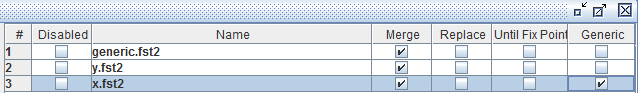
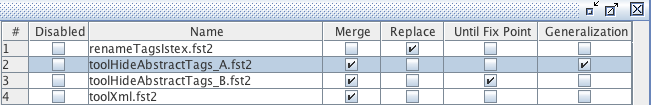
[minor refactor] Rename generic graphs
‘generic graph’ is renamed to ‘tagging generalization graph’ in English
and to ‘graphe de généralisation d’étiquetage’

diff --git a/tex/12-cassys_FR_utf8.tex b/tex/12-cassys_FR_utf8.tex
@@ -376,31 +376,31 @@ $\backslash$ dans la concordance pour éviter des problèmes avec Unitex.
   \label{fig13-07}
 \end{figure}
 
-\section{Graphes g\'{e}n\'{e}riques}
+\section{Graphes de g\'{e}n\'{e}ralisation d'\'{e}tiquetage}
 
-Parfois, on a identifi\'{e} des \'{e}l\'{e}ments recherch\'{e}s gr\^{a}ce \`{a} leur contexte, mais si ces \'{e}l\'{e}ments apparaissent ailleurs hors contexte on ne les reconna\^{i}t pas. Afin de trouver de telles occurences, CasSys propose d'utiliser des graphes g\'{e}n\'{e}riques. Ces graphes contiennent des bo\^{i}tes vides qui sont remplies automatiquement par le programme avant d'\^{e}tre appliqu\'{e}s au texte. Ces graphes g\'{e}n\'{e}riques ne fonctionnent qu'avec l'utilisation d'accolades, car le programme consulte la liste de token (tok\_by\_alph.txt) du texte \`{a} analyser par le futur graphe.
+Parfois, on a identifi\'{e} des \'{e}l\'{e}ments recherch\'{e}s gr\^{a}ce \`{a} leur contexte, mais si ces \'{e}l\'{e}ments apparaissent ailleurs hors contexte on ne les reconna\^{i}t pas. Afin de trouver de telles occurences, CasSys propose d'utiliser des graphes de g\'{e}n\'{e}ralisation d'\'{e}tiquetage. Ces graphes contiennent des bo\^{i}tes vides qui sont remplies automatiquement par le programme avant d'\^{e}tre appliqu\'{e}s au texte. Ces graphes de g\'{e}n\'{e}ralisation d'\'{e}tiquetage ne fonctionnent qu'avec l'utilisation d'accolades, car le programme consulte la liste de token (tok\_by\_alph.txt) du texte \`{a} analyser par le futur graphe.
 
-\subsection{D\'{e}claration d'un graphe g\'{e}n\'{e}rique}
-Pour que CasSys reconnaisse un graphe g\'{e}n\'{e}rique il faut cocher la colonne \emph{Generic} (figure \ref{fig12-3}).
+\subsection{D\'{e}claration d'un graphe de g\'{e}n\'{e}ralisation d'\'{e}tiquetage}
+Pour que CasSys reconnaisse un graphe de g\'{e}n\'{e}ralisation d'\'{e}tiquetage il faut cocher la colonne \emph{Generalization} (figure \ref{fig12-3}).
 \begin{figure}[!htb]
   \centering
   \includegraphics[width=15cm]{resources/img/fig12-3.png}
-  \caption{Graphe g\'{e}n\'{e}rique}
+  \caption{Graphe de g\'{e}n\'{e}ralisation d'\'{e}tiquetage}
   \label{fig12-3}
 \end{figure}
 
-\subsection{Structure d'un graphe g\'{e}n\'{e}rique}
-Un chemin dans un graphe g\'{e}n\'{e}rique doit commencer par une bo\^{i}te avec \$G et, en sortie, une accolade ouvrante. C'est cette bo\^{i}te qui sera remplie par CasSys. La deuxi\`{e}me bo\^{i}te comprend en sortie l'\'{e}l\'{e}ment \`{a} chercher. Sur la figure \ref{fig12-3-01}, CasSys place dans la bo\^{i}te toutes les entr\'{e}es de cat\'{e}gorie \textit{x} extraites de la liste de token du texte. Par exemple, CasSys extrait \textit{A} de la ligne \emph{\{A,.x\}} de la liste de token du texte comme dans la figure \ref{fig12-3-01a}. En plus, un contexte droit n\'{e}gatif (section~\ref{section-contexts}) est plac\'{e} pour emp\^{e}cher le  deuxi\`{e}me \'{e}tiquetage de l'occurence.
+\subsection{Structure d'un graphe de g\'{e}n\'{e}ralisation d'\'{e}tiquetage}
+Un chemin dans un graphe de g\'{e}n\'{e}ralization d'\'{e}tiquetage doit commencer par une bo\^{i}te avec \$G et, en sortie, une accolade ouvrante. C'est cette bo\^{i}te qui sera remplie par CasSys. La deuxi\`{e}me bo\^{i}te comprend en sortie l'\'{e}l\'{e}ment \`{a} chercher. Sur la figure \ref{fig12-3-01}, CasSys place dans la bo\^{i}te toutes les entr\'{e}es de cat\'{e}gorie \textit{x} extraites de la liste de token du texte. Par exemple, CasSys extrait \textit{A} de la ligne \emph{\{A,.x\}} de la liste de token du texte comme dans la figure \ref{fig12-3-01a}. En plus, un contexte droit n\'{e}gatif (section~\ref{section-contexts}) est plac\'{e} pour emp\^{e}cher le  deuxi\`{e}me \'{e}tiquetage de l'occurence.
 \begin{figure}[!htb]
   \centering
   \includegraphics[width=5cm]{resources/img/fig12-3-01.png}
-  \caption{Graphe g\'{e}n\'{e}rique}
+  \caption{Graphe de g\'{e}n\'{e}ralisation d'\'{e}tiquetage}
   \label{fig12-3-01}
 \end{figure}
 \begin{figure}[!htb]
   \centering
   \includegraphics[width=9cm]{resources/img/fig12-3-01a.png}
-  \caption{Graphe g\'{e}n\'{e}rique modifi\'{e}}
+  \caption{Graphe de g\'{e}n\'{e}ralisation d'\'{e}tiquetage modifi\'{e}}
   \label{fig12-3-01a}
 \end{figure}
 
@@ -409,7 +409,7 @@ Dans le cas d'une imbrication \emph{\{\{A,.y\} \{B,.z\},.x\}} le graphe de la fi
 \begin{figure}[!htb]
   \centering
   \includegraphics[width=8cm]{resources/img/fig12-3-02.png}
-  \caption{Graphe g\'{e}n\'{e}rique modifi\'{e}}
+  \caption{Graphe de g\'{e}n\'{e}ralisation d'\'{e}tiquetage modifi\'{e}}
   \label{fig12-3-02}
 \end{figure}
 
@@ -417,14 +417,14 @@ Dans le cas d'une imbrication \emph{\{\{A,.y\} \{B,.z\},.x\}} le graphe de la fi
 \begin{figure}[!htb]
   \centering
   \includegraphics[width=5cm]{resources/img/fig12-3-03.png}
-  \caption{Graphe g\'{e}n\'{e}rique avec une restriction}
+  \caption{Graphe de g\'{e}n\'{e}ralisation d'\'{e}tiquetage avec une restriction}
   \label{fig12-3-03}
 \end{figure}
 
 \begin{figure}[!htb]
   \centering
   \includegraphics[width=8cm]{resources/img/fig12-3-04.png}
-  \caption{Graphe g\'{e}n\'{e}rique modifi\'{e}}
+  \caption{Graphe de g\'{e}n\'{e}ralisation d'\'{e}tiquetage modifi\'{e}}
   \label{fig12-3-04}
 \end{figure}
 
@@ -440,7 +440,7 @@ Dans le cas d'une imbrication \emph{\{\{A,.y\} \{B,.z\},.x\}} le graphe de la fi
 \begin{figure}[!htb]
   \centering
   \includegraphics[width=5cm]{resources/img/fig12-3-05.png}
-  \caption{Graphe g\'{e}n\'{e}rique avec une n\'{e}gation}
+  \caption{Graphe de g\'{e}n\'{e}ralisation d'\'{e}tiquetage avec une n\'{e}gation}
   \label{fig12-3-05}
 \end{figure}
 
@@ -448,7 +448,7 @@ Dans le cas d'une imbrication \emph{\{\{A,.y\} \{B,.z\},.x\}} le graphe de la fi
 \begin{figure}[!htb]
   \centering
   \includegraphics[width=7cm]{resources/img/fig12-3-06.png}
-  \caption{Graphe g\'{e}n\'{e}rique modifi\'{e}}
+  \caption{Graphe de g\'{e}n\'{e}ralisation d'\'{e}tiquetage modifi\'{e}}
   \label{fig12-3-06}
 \end{figure}
 
@@ -456,7 +456,7 @@ Si on veut compl\'{e}ter la sortie du graphe par quelque chose qui ne doit pas \
 \begin{figure}[!htb]
   \centering
   \includegraphics[width=6cm]{resources/img/fig12-3-07.png}
-  \caption{Graphe g\'{e}n\'{e}rique avec un compl\'{e}ment}
+  \caption{Graphe de g\'{e}n\'{e}ralisation d'\'{e}tiquetage avec un compl\'{e}ment}
   \label{fig12-3-07}
 \end{figure}
 

diff --git a/tex/12-cassys_EN_utf8.tex b/tex/12-cassys_EN_utf8.tex
@@ -289,11 +289,11 @@ Note that for programming reasons (ambiguities between characters in the curly b
 \end{figure}
 
 
-\section{Generic Graphs}
-Sometimes, we are able to locate elements because of their context, but if these elements appear without context, then they cannot be identified. In order to locate such occurences, CasSys proposes to utilise generic graphs. These graphs contain empty boxes that are filled automatically by the program before being applied to the text. These generic graphs work only with the usage of curly brackets, because the program consults the token list of the text to be analysed by the future graph.
+\section{Tagging Generalization Graphs}
+Sometimes, we are able to locate elements because of their context, but if these elements appear without context, then they cannot be identified. In order to locate such occurences, CasSys proposes to utilise tagging generalization graphs. These graphs contain empty boxes that are filled automatically by the program before being applied to the text. These generalizatoin graphs work only with the usage of curly brackets, because the program consults the token list of the text to be analysed by the future graph.
 
-\subsection{Identifying a Generic Graph}
-CasSys recognises a graph as generic graph if the column \emph{Generic} is checked (figure \ref{fig12-3}).
+\subsection{Identifying a Tagging Generalization Graph}
+CasSys recognises a graph as tagging generalization graph if the column \emph{Generalization} is checked (figure \ref{fig12-3}).
 \begin{figure}[!htb]
   \centering
   \includegraphics[width=15cm]{resources/img/fig12-3.png}
@@ -301,18 +301,18 @@ CasSys recognises a graph as generic graph if the column \emph{Generic} is check
   \label{fig12-3}
 \end{figure}
 
-\subsection{Structure of a Generic Graph}
-A path in a generic graph must begin with a box containing \$G and an opening curly bracket as output. It is this box which is updated by CasSys. The second box has as output the element to be searched. In the figure \ref{fig12-3-01}, CasSys places in the box all the entries of category \textit{x} extracted from the token list (tok\_by\_alph.txt) of the text. For example, CasSys extracts  \textit{A} from the line \emph{\{A,.x\}} of the token list of the text as shown in the figure \ref{fig12-3-01a}. Additionally, a negative right context (section~\ref{section-contexts} is added to prevent the element from being annotated twice.
+\subsection{Structure of a Tagging Generalization Graph}
+A path in a tagging generalization graph must begin with a box containing \$G and an opening curly bracket as output. It is this box which is updated by CasSys. The second box has as output the element to be searched. In the figure \ref{fig12-3-01}, CasSys places in the box all the entries of category \textit{x} extracted from the token list (tok\_by\_alph.txt) of the text. For example, CasSys extracts  \textit{A} from the line \emph{\{A,.x\}} of the token list of the text as shown in the figure \ref{fig12-3-01a}. Additionally, a negative right context (section~\ref{section-contexts} is added to prevent the element from being annotated twice.
 \begin{figure}[!htb]
   \centering
   \includegraphics[width=5cm]{resources/img/fig12-3-01.png}
-  \caption{Generic Graph}
+  \caption{Tagging Generalization Graph}
   \label{fig12-3-01}
 \end{figure}
 \begin{figure}[!htb]
   \centering
   \includegraphics[width=9cm]{resources/img/fig12-3-01a.png}
-  \caption{Modified Generic Graph}
+  \caption{Modified Tagging Generalization Graph}
   \label{fig12-3-01a}
 \end{figure}
 
@@ -320,7 +320,7 @@ In the case of a token list entry \emph{\{\{A,.y\} \{B,.z\},.x\}} the graph of t
 \begin{figure}[!htb]
   \centering
   \includegraphics[width=8cm]{resources/img/fig12-3-02.png}
-  \caption{Modified Generic Graph}
+  \caption{Modified Tagging Generalization Graph}
   \label{fig12-3-02}
 \end{figure}
 
@@ -328,14 +328,14 @@ In the case of a token list entry \emph{\{\{A,.y\} \{B,.z\},.x\}} the graph of t
 \begin{figure}[!htb]
   \centering
   \includegraphics[width=5cm]{resources/img/fig12-3-03.png}
-  \caption{Generic Graph with a restriction}
+  \caption{Tagging Generalization Graph with a restriction}
   \label{fig12-3-03}
 \end{figure}
 
 \begin{figure}[!htb]
   \centering
   \includegraphics[width=8cm]{resources/img/fig12-3-04.png}
-  \caption{Modified Generic Graph}
+  \caption{Modified Tagging Generalization Graph}
   \label{fig12-3-04}
 \end{figure}
 
@@ -343,7 +343,7 @@ In the case of a token list entry \emph{\{\{A,.y\} \{B,.z\},.x\}} the graph of t
 \begin{figure}[!htb]
   \centering
   \includegraphics[width=5cm]{resources/img/fig12-3-05.png}
-  \caption{Generic Graph with a negation}
+  \caption{Tagging Generalization Graph with a negation}
   \label{fig12-3-05}
 \end{figure}
 
@@ -351,7 +351,7 @@ In the case of a token list entry \emph{\{\{A,.y\} \{B,.z\},.x\}} the graph of t
 \begin{figure}[!htb]
   \centering
   \includegraphics[width=7cm]{resources/img/fig12-3-06.png}
-  \caption{Modified Generic Graph}
+  \caption{Modified Tagging Generalization Graph}
   \label{fig12-3-06}
 \end{figure}
 
@@ -359,7 +359,7 @@ If the output of the graph needs to be complemented with certain information tha
 \begin{figure}[!htb]
   \centering
   \includegraphics[width=6cm]{resources/img/fig12-3-07.png}
-  \caption{Generic Graph with Additional Information}
+  \caption{Tagging Generalization Graph with Additional Information}
   \label{fig12-3-07}
 \end{figure}
 

diff --git a/tex/00-introduction_EN_utf8.tex b/tex/00-introduction_EN_utf8.tex
@@ -55,7 +55,7 @@ Here are the main new features:
 \begin{itemize}
 
   \item Faster engine that uses less stack.
-  \item Enhanced version of \verb$CasSys$: new \verb$csc$ files, suppression of the \verb$Share$ directory, open cascade also by the \verb$FSGraph$ menu, apply graph until fixed point, generic graphs, last file may be denormalized
+  \item Enhanced version of \verb$CasSys$: new \verb$csc$ files, suppression of the \verb$Share$ directory, open cascade also by the \verb$FSGraph$ menu, apply graph until fixed point, tagging generalization graphs, last file may be denormalized
   (Chapter \ref{chap-cassys}).
   \item Introduction of Malagasy.
   \item Publication of \verb$main_UnitexTool_C$ as public API.

diff --git a/tex/00-introduction_FR_utf8.tex b/tex/00-introduction_FR_utf8.tex
@@ -56,7 +56,7 @@ Voici les principales nouvelles fonctionnalités:
   nouveaux fichiers \verb$csc$,
   ouverture de cascade possible aussi avec le menu \verb$FSGraph$,
   suppression du répertoire \verb$Share$,
-  application de graphe jusqu'au point fixe, graphes génériques,
+  application de graphe jusqu'au point fixe, graphes de g\'{e}n\'{e}ralisation d'\'{e}tiquetage,
   redénormalisation du dernier fichier
   (chapitre \ref{chap-cassys}).
   \item Introduction du malgache.
